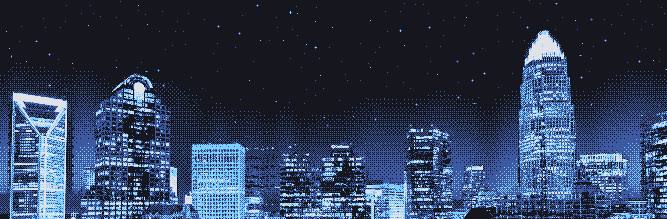
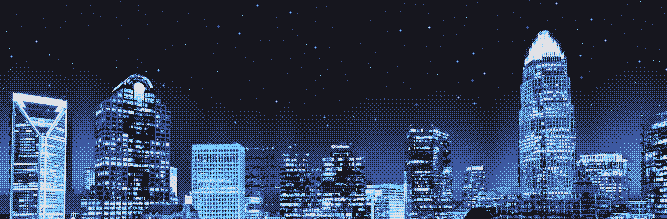
perf(images): serve the skyline photo and wallpaper as WebP, a smaller texture on phones, and load the wallpaper near the viewport

diff --git a/src/features/skyline/components/SkylineCanvas.tsx b/src/features/skyline/components/SkylineCanvas.tsx
@@ -41,9 +41,12 @@ function compile(gl: WebGLRenderingContext, type: number, src: string) {
  */
 export function SkylineCanvas({
   src,
+  srcPhone,
   fill = false,
 }: {
   src: string
+  /** A smaller texture used instead of `src` on a phone-width screen. */
+  srcPhone?: string
   /** Cover the positioned parent instead of sizing itself. */
   fill?: boolean
 }) {
@@ -123,8 +126,13 @@ export function SkylineCanvas({
         canvas.dataset.ready = 'true'
       }
     }
-    const loop = () => {
-      draw()
+    // Phones redraw at half rate: the twinkle does not need 60fps and it saves battery.
+    let lastDraw = 0
+    const loop = (now = performance.now()) => {
+      if (!phone.matches || now - lastDraw >= 33) {
+        lastDraw = now
+        draw()
+      }
       if (running) raf = requestAnimationFrame(loop)
     }
 
@@ -135,7 +143,7 @@ export function SkylineCanvas({
       ready = true
       draw()
     }
-    photo.src = src
+    photo.src = fill && srcPhone && phone.matches ? srcPhone : src
 
     const size = () => {
       const r = canvas.getBoundingClientRect()
@@ -169,7 +177,7 @@ export function SkylineCanvas({
       visible.disconnect()
       photo.onload = null
     }
-  }, [src, fill])
+  }, [src, srcPhone, fill])
 
   return (
     <canvas ref={ref} className={fill ? s.fill : s.canvas} aria-hidden="true" />

diff --git a/src/features/skyline/components/SkylineBackdrop.tsx b/src/features/skyline/components/SkylineBackdrop.tsx
@@ -3,7 +3,9 @@ import { preload } from 'react-dom'
 import s from '../skyline.module.css'
 import { SkylineCanvas } from './SkylineCanvas'
 
-const PHOTO = '/skyline/charlotte.jpg'
+const PHOTO = '/skyline/charlotte.webp'
+/** A smaller texture for the phone band, which is drawn at 356px wide. */
+const PHOTO_MOBILE = '/skyline/charlotte-mobile.webp'
 /** One frame of the shader, baked by scripts/skyline-placeholder.py. */
 const STILL = '/skyline/charlotte-dither.png'
 /** The phone band's frame, baked with `--mobile`. */
@@ -28,11 +30,12 @@ export function SkylineBackdrop() {
     fetchPriority: 'high',
     media: '(max-width: 720px)',
   })
-  preload(PHOTO, { as: 'image' })
+  preload(PHOTO, { as: 'image', media: '(min-width: 721px)' })
+  preload(PHOTO_MOBILE, { as: 'image', media: '(max-width: 720px)' })
   return (
     <>
       <div className={s.backdrop}>
-        <SkylineCanvas src={PHOTO} fill />
+        <SkylineCanvas src={PHOTO} srcPhone={PHOTO_MOBILE} fill />
       </div>
       <a className={s.credit} href={CREDIT_URL}>
         Photo: Nan Palmero, CC BY 2.0

diff --git a/src/features/setup/setup.module.css b/src/features/setup/setup.module.css
@@ -1,12 +1,24 @@
 /* Setup: a Sway desktop sketch (square corners, 1px borders, thin gaps, Waybar along the bottom) */
 .dk {
+  /* Skipped while off screen, so the wallpaper only downloads near the viewport. */
+  content-visibility: auto;
+  contain-intrinsic-size: auto 480px;
+  position: relative;
+  isolation: isolate;
   display: flex;
   flex-direction: column;
   border: 1px solid var(--border);
   overflow: hidden;
-  /* Sway: output * background wallpaper.png fill */
-  background: var(--color-tn-bg-deep) url('/ikigai-wallpaper.png') center
-    bottom / cover no-repeat;
+  background: var(--color-tn-bg-deep);
+}
+/* Sway: output * background wallpaper fill. On a pseudo-element because an
+   element's own background paints even while its contents are skipped. */
+.dk::before {
+  content: '';
+  position: absolute;
+  inset: 0;
+  z-index: -1;
+  background: url('/ikigai-wallpaper.webp') center bottom / cover no-repeat;
 }
 .dkTiles {
   display: grid;

diff --git a/AGENTS.md b/AGENTS.md
@@ -29,8 +29,9 @@ Package manager: **npm**. Node `>= 20.9`.
 ```
 ├── alchemy.run.ts          # Cloudflare IaC (Alchemy 0.94 Nextjs resource, R2 cache, images)
 ├── open-next.config.ts     # OpenNext Cloudflare adapter
-├── public/ikigai-wallpaper.png   # real Sway wallpaper from kzndotsh/dotfiles
-├── public/skyline/charlotte.jpg  # CC BY 2.0 night photo (credit in CREDITS.txt and on the page)
+├── public/ikigai-wallpaper.webp  # real Sway wallpaper from kzndotsh/dotfiles (loads only near the viewport)
+├── public/skyline/charlotte.webp # CC BY 2.0 night photo, WebP (+ charlotte-mobile.webp texture); original JPEG in scripts/source/
+│                                 # re-bake the dither stills after changing either (scripts/skyline-placeholder.mjs)
 └── src/
     ├── app/                # routes only: thin pages and API route handlers
     │   ├── page.tsx        # homepage: renders features/home/HomePage
